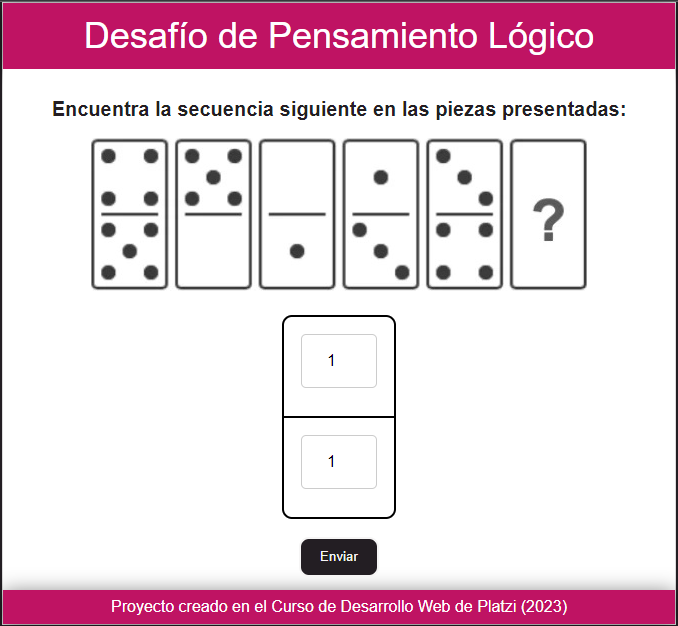
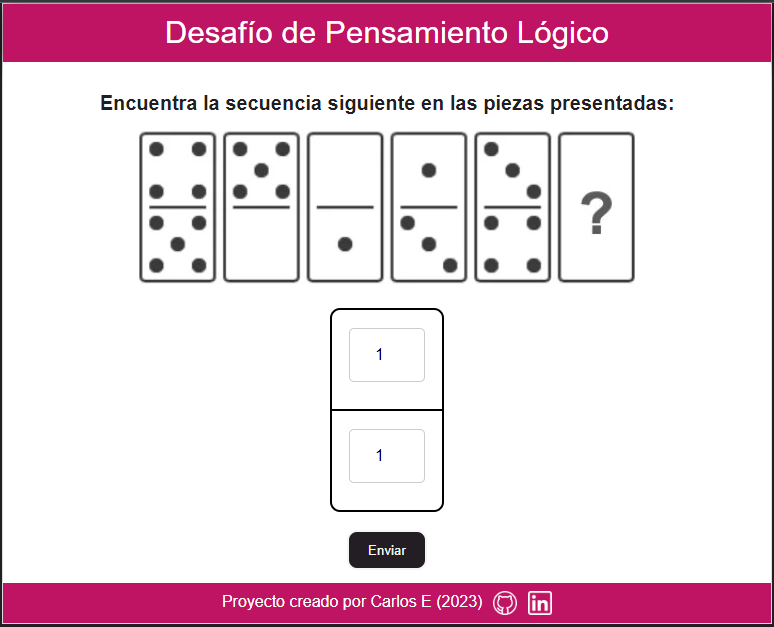
Modificamos el footer y la imagen del Readme

Changed region(s): [[0.0, 0.0, 1.0, 1.0]]

diff --git a/index.html b/index.html
@@ -70,7 +70,9 @@
         </div>
 
         <div id="footer">
-            Proyecto creado en el Curso de Desarrollo Web de Platzi (2023)
+            Proyecto creado por Carlos E (2023)
+            <a href="https://github.com/mccromo/sequence_domino" target="_blank"><img id="img-footer" src="img/github.png"></a>
+            <a href="https://www.linkedin.com/in/carlosev23/" target="_blank"><img id="img-footer" src="img/linkedin.png"></a>
         </div>
     </section>
     <script src="js/domino.js"></script>

diff --git a/css/estilos.css b/css/estilos.css
@@ -51,7 +51,7 @@ button {
     margin: 0 auto;
 }
 
-#cabecera, #footer {
+#cabecera {
     background: #BF1363;
     box-shadow: 0px 2px 20px 0px rgba(0, 0, 0, 0.5);
     color: white;
@@ -81,6 +81,20 @@ button {
 #img-domino {
     max-width: 100%;
     height: auto;
+}
+
+#footer {
+    background: #BF1363;
+    color: white;
+    text-align: center;
+    padding: 0.5em;
+ }
+
+#img-footer {
+    width: 1.5em;
+    height: 1.5em;
+    vertical-align: middle;
+    margin: 0 0 0 0.4em;
 }
 
 .list {
